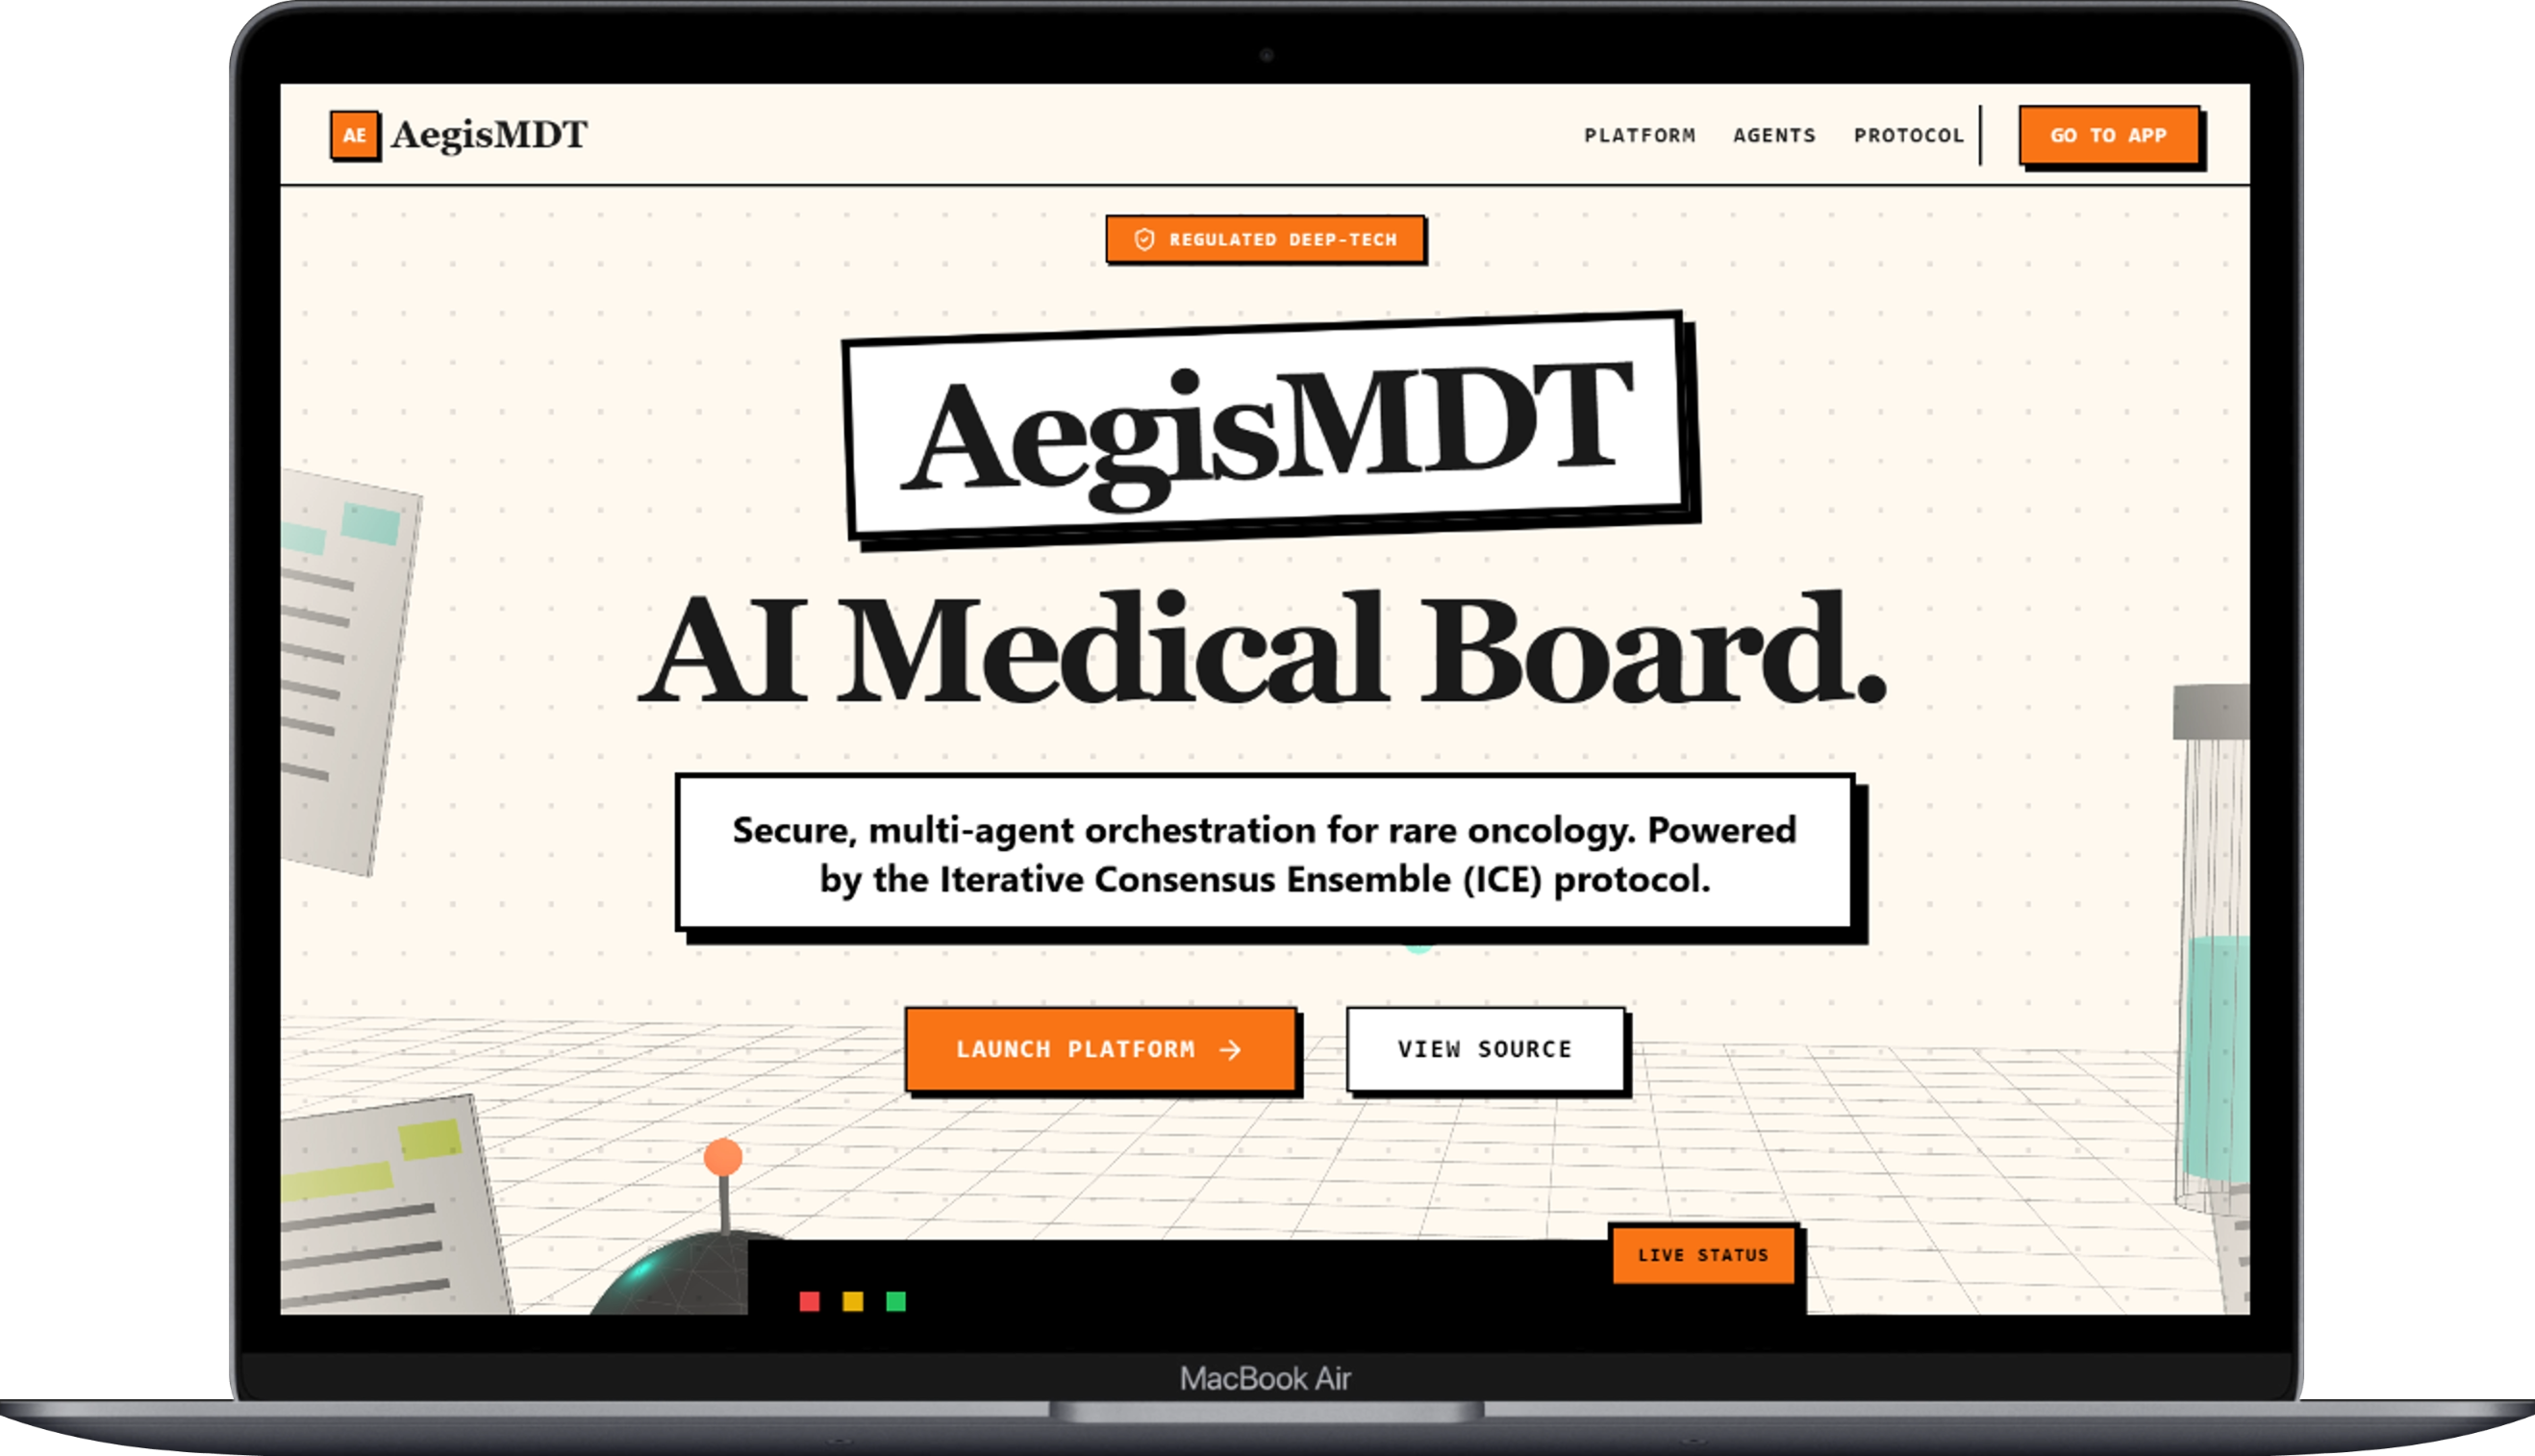
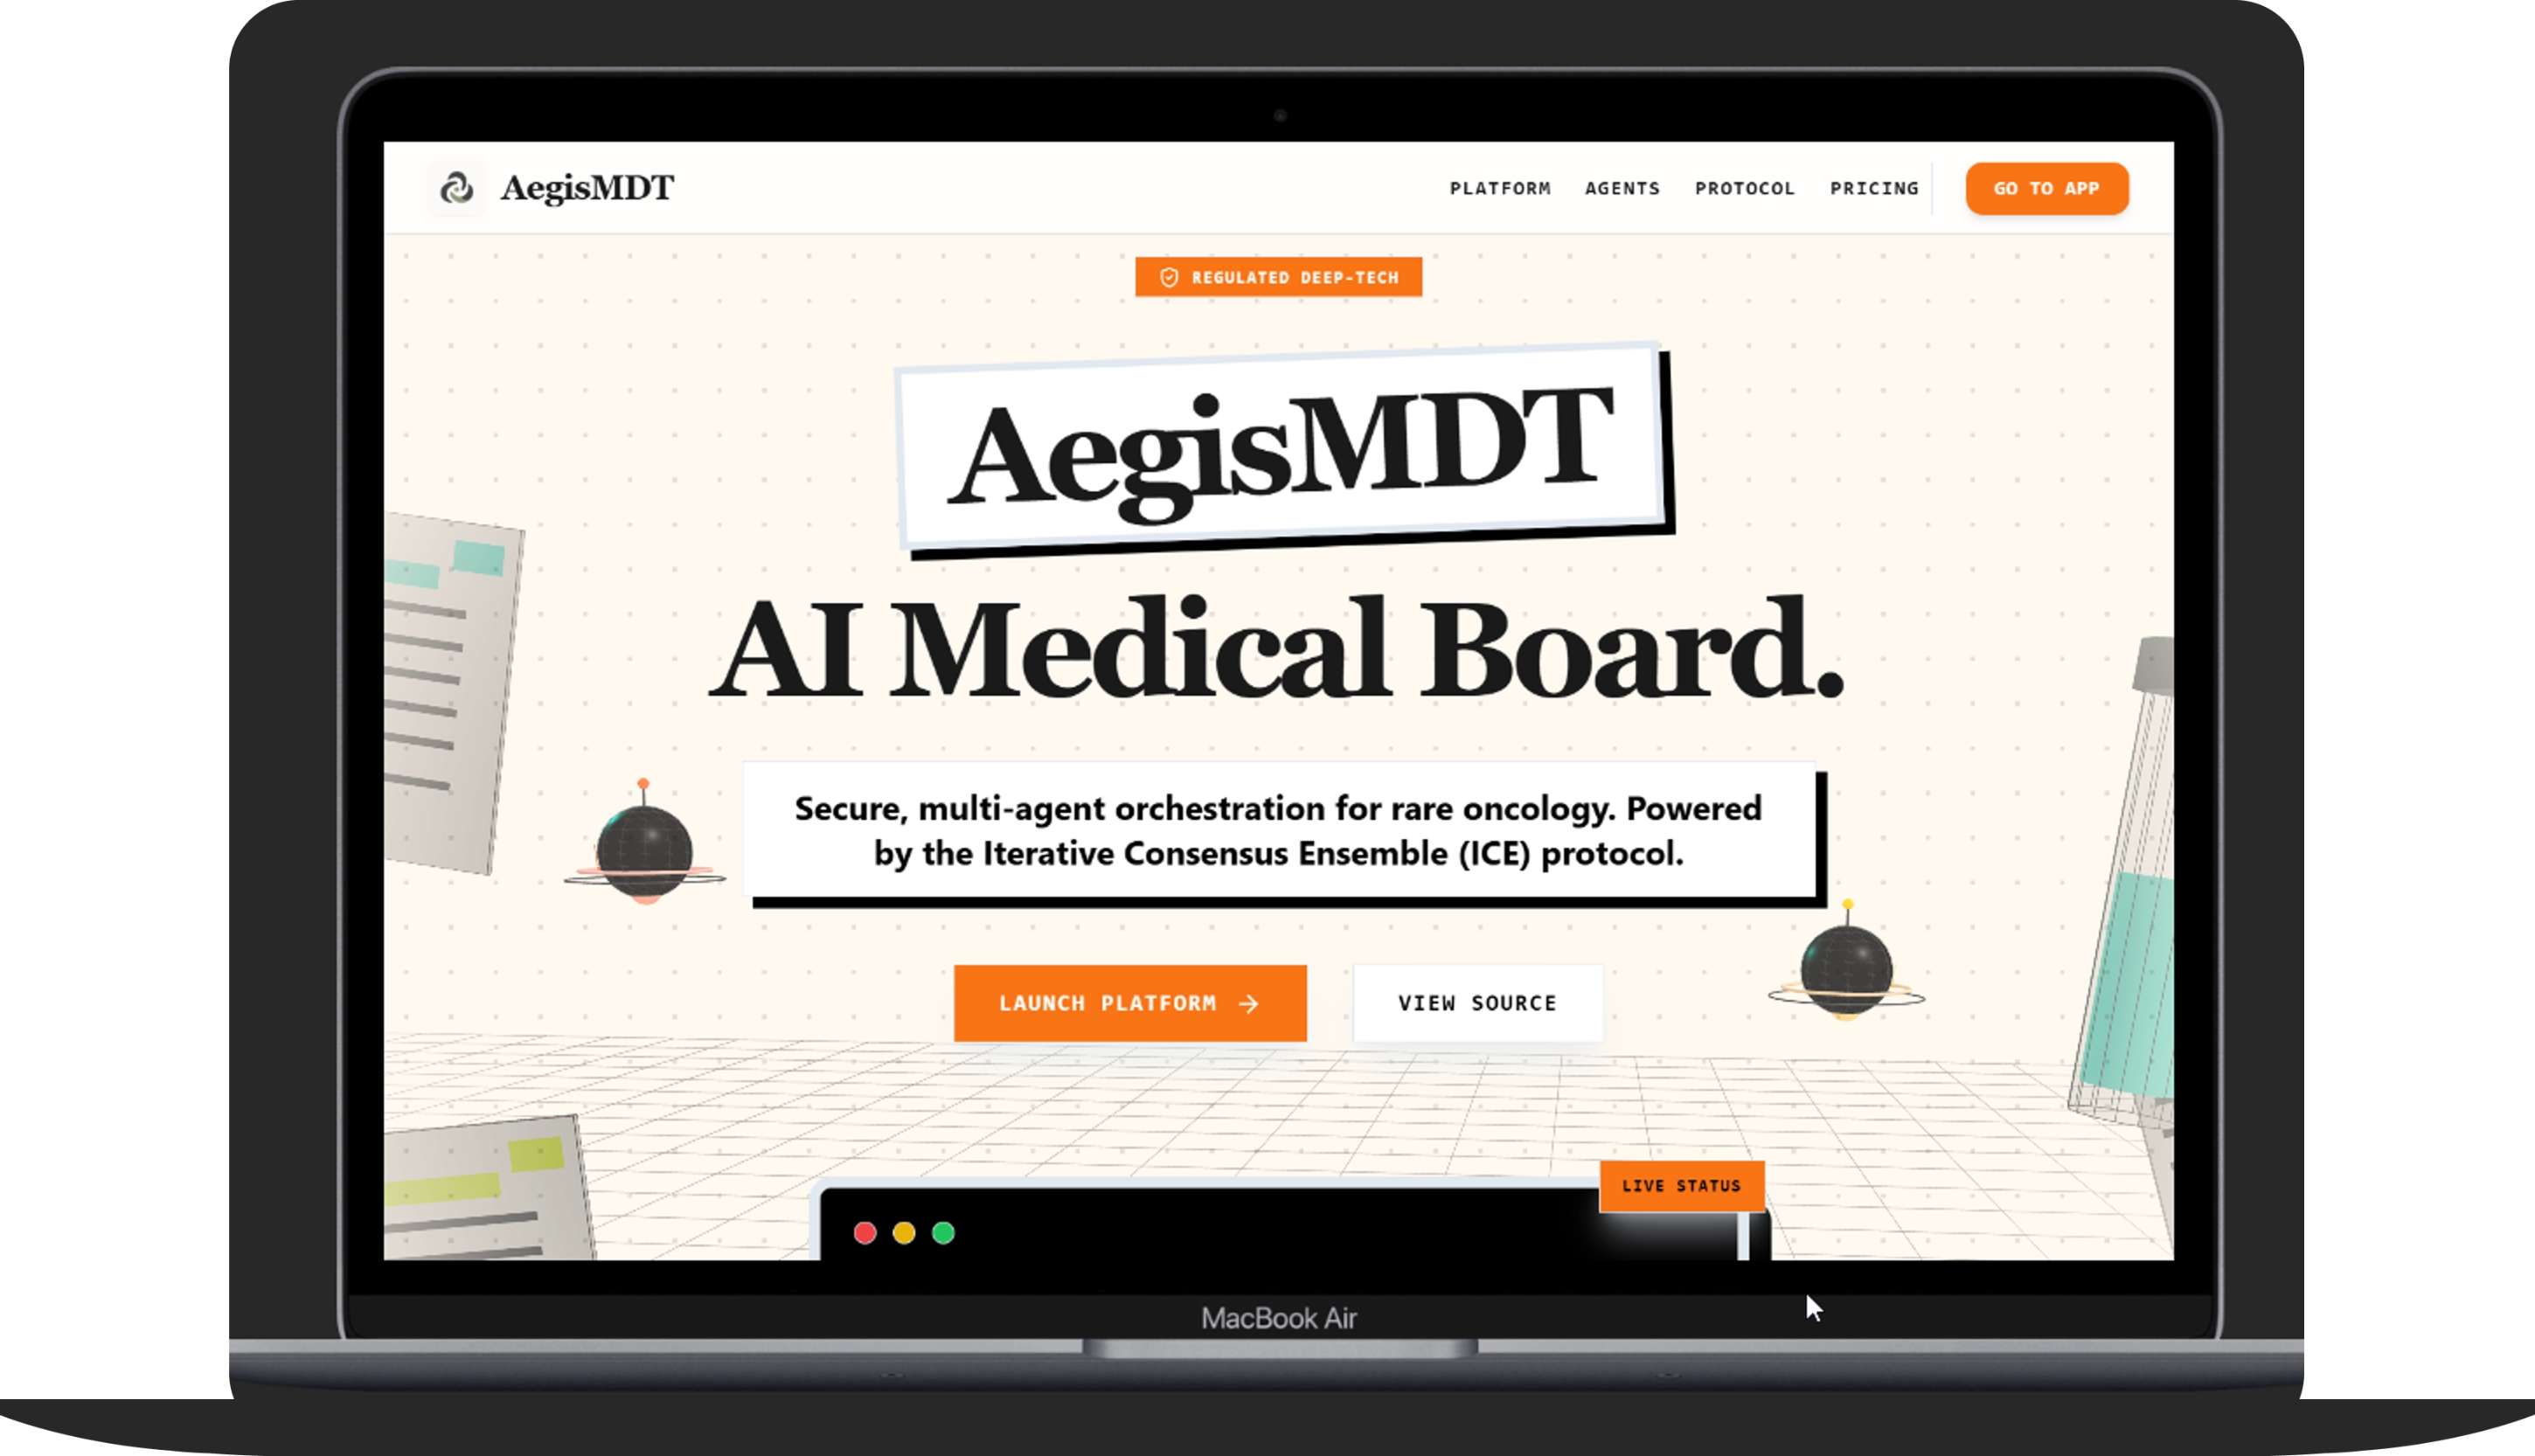
chore: optimize nextjs codebase, fix all typescript any types, migrate img to next/image for LCP, remove unused imports

diff --git a/frontend/src/app/cases/[id]/page.tsx b/frontend/src/app/cases/[id]/page.tsx
@@ -26,15 +26,49 @@ const CircularProgress = ({ value, label }: { value: number, label: string }) =>
   );
 };
 
+interface TrialMatch {
+  trial_id: string;
+  eligibility_match_score: number;
+}
+
+interface ConsensusData {
+  diagnosis: string;
+  prognostic_score: number;
+  treatment_recommendation: string;
+  clinical_trials?: TrialMatch[];
+}
+
+interface MessageData {
+  agent: string;
+  action: string;
+  content: string;
+  citations?: string[];
+  confidence?: number;
+  timestamp?: string;
+}
+
+interface CaseDetails {
+  id: string;
+  status: string;
+  input_data: {
+    age?: string | number;
+    sex?: string;
+    description?: string;
+  };
+  timeline?: MessageData[];
+  consensus_result?: ConsensusData;
+  wsi_path?: string;
+}
+
 type CaseStatus = 'submitted' | 'processing' | 'debating' | 'consensus_reached' | 'awaiting_approval' | 'approved' | 'revised';
 
 export default function CaseDashboard() {
   const params = useParams();
   const caseId = params.id as string;
-  const [caseData, setCaseData] = useState<any>(null);
-  const [messages, setMessages] = useState<any[]>([]);
+  const [caseData, setCaseData] = useState<CaseDetails | null>(null);
+  const [messages, setMessages] = useState<MessageData[]>([]);
   const [status, setStatus] = useState<CaseStatus>('submitted');
-  const [consensus, setConsensus] = useState<any>(null);
+  const [consensus, setConsensus] = useState<ConsensusData | null>(null);
   const [feedback, setFeedback] = useState('');
   const [showFeedbackInput, setShowFeedbackInput] = useState(false);
   const [wsStatus, setWsStatus] = useState<'connecting' | 'connected' | 'disconnected' | 'error'>('connecting');
@@ -506,7 +540,7 @@ export default function CaseDashboard() {
                   <div>
                     <span className="text-muted-foreground block text-xs uppercase tracking-wider mb-1">Top Clinical Trials</span>
                     <div className="space-y-2">
-                      {consensus.clinical_trials.slice(0, 2).map((trial: any, i: number) => (
+                      {consensus.clinical_trials.slice(0, 2).map((trial: TrialMatch, i: number) => (
                         <div key={i} className="text-xs bg-secondary/40 p-2 rounded border border-border flex justify-between items-center">
                           <span className="font-medium">{trial.trial_id}</span>
                           <span className="text-teal-400">{(trial.eligibility_match_score * 100).toFixed(0)}% Match</span>

diff --git a/frontend/src/app/dashboard/page.tsx b/frontend/src/app/dashboard/page.tsx
@@ -2,9 +2,20 @@
 
 import { useState, useEffect } from 'react';
 import { useRouter } from 'next/navigation';
-import { Activity, FileText, Users, Shield, Mic, Upload, Database, CheckCircle2 } from 'lucide-react';
+import { Activity, FileText, Users, Shield, Mic, Upload, Database } from 'lucide-react';
 import { motion } from 'framer-motion';
 import { useAuth } from '@/components/AuthProvider';
+
+interface CaseSummary {
+  id: string;
+  status: string;
+  input_data: {
+    age?: string | number;
+    sex?: string;
+    description?: string;
+  };
+  created_at?: string;
+}
 
 export default function Home() {
   const router = useRouter();
@@ -14,7 +25,7 @@ export default function Home() {
   const [sex, setSex] = useState('');
   const [imageUrl, setImageUrl] = useState('');
   const [isSubmitting, setIsSubmitting] = useState(false);
-  const [cases, setCases] = useState<any[]>([]);
+  const [cases, setCases] = useState<CaseSummary[]>([]);
   const [activeTab, setActiveTab] = useState<'manual' | 'upload' | 'emr'>('manual');
   const [isDictating, setIsDictating] = useState(false);
   const [isUploading, setIsUploading] = useState(false);

diff --git a/frontend/src/app/cases/page.tsx b/frontend/src/app/cases/page.tsx
@@ -6,10 +6,21 @@ import { useRouter } from 'next/navigation';
 import { Activity, CheckCircle, AlertTriangle, Clock, ArrowRight } from 'lucide-react';
 import { useAuth } from '@/components/AuthProvider';
 
+interface CaseSummary {
+  id: string;
+  status: string;
+  input_data: {
+    age?: string | number;
+    sex?: string;
+    description?: string;
+  };
+  created_at?: string;
+}
+
 export default function ActiveCasesPage() {
   const router = useRouter();
   const { user, isLoading: authLoading } = useAuth();
-  const [cases, setCases] = useState<any[]>([]);
+  const [cases, setCases] = useState<CaseSummary[]>([]);
   const [loading, setLoading] = useState(true);
 
   useEffect(() => {

diff --git a/frontend/src/app/page.tsx b/frontend/src/app/page.tsx
@@ -2,8 +2,9 @@
 
 import React, { useState, useEffect } from 'react';
 import { motion } from 'framer-motion';
-import { Network, Microscope, UserCog, Scale, ArrowRight, ShieldCheck, Database, Layers, Lock, Activity, Cpu, Fingerprint, Printer, Trophy, CheckCircle2 } from 'lucide-react';
+import { Microscope, UserCog, Scale, ArrowRight, ShieldCheck, Lock, Activity, Cpu, Fingerprint, Printer } from 'lucide-react';
 import Link from 'next/link';
+import Image from 'next/image';
 import dynamic from 'next/dynamic';
 
 const Scene3D = dynamic(() => import('./components/Scene3D').then(mod => mod.Scene3D), { ssr: false });
@@ -354,19 +355,19 @@ export default function LandingPage() {
               {[...Array(3)].map((_, i) => (
                 <div key={i} className="flex space-x-8 md:space-x-16 items-center">
                   <div className="flex items-center justify-center bg-white px-8 py-4 border border-slate-200 shadow-[4px_4px_0px_0px_rgba(0,0,0,1)] min-w-[250px] hover:-translate-y-1 hover:shadow-[6px_6px_0px_0px_rgba(0,0,0,1)] transition-all">
-                    <img src="/band.svg" alt="Band SDK" className="h-14 w-auto object-contain" />
+                    <Image src="/band.svg" alt="Band SDK" width={180} height={56} className="h-14 w-auto object-contain" />
                   </div>
                   <div className="flex items-center justify-center bg-white px-8 py-4 border border-slate-200 shadow-[4px_4px_0px_0px_rgba(0,0,0,1)] min-w-[250px] hover:-translate-y-1 hover:shadow-[6px_6px_0px_0px_rgba(0,0,0,1)] transition-all">
-                    <img src="/featherless.svg" alt="Featherless AI" className="h-14 w-auto object-contain" />
+                    <Image src="/featherless.svg" alt="Featherless AI" width={220} height={56} className="h-14 w-auto object-contain" />
                   </div>
                   <div className="flex items-center justify-center bg-white px-8 py-4 border border-slate-200 shadow-[4px_4px_0px_0px_rgba(0,0,0,1)] min-w-[250px] hover:-translate-y-1 hover:shadow-[6px_6px_0px_0px_rgba(0,0,0,1)] transition-all">
-                    <img src="/chroma.svg" alt="ChromaDB" className="h-14 w-auto object-contain" />
+                    <Image src="/chroma.svg" alt="ChromaDB" width={200} height={56} className="h-14 w-auto object-contain" />
                   </div>
                   <div className="flex items-center justify-center bg-white px-8 py-4 border border-slate-200 shadow-[4px_4px_0px_0px_rgba(0,0,0,1)] min-w-[200px] hover:-translate-y-1 hover:shadow-[6px_6px_0px_0px_rgba(0,0,0,1)] transition-all">
-                    <img src="/lablab.svg" alt="lablab.ai" className="h-14 w-auto object-contain" />
+                    <Image src="/lablab.svg" alt="lablab.ai" width={150} height={56} className="h-14 w-auto object-contain" />
                   </div>
                   <div className="flex items-center justify-center bg-white px-8 py-4 border border-slate-200 shadow-[4px_4px_0px_0px_rgba(0,0,0,1)] min-w-[250px] hover:-translate-y-1 hover:shadow-[6px_6px_0px_0px_rgba(0,0,0,1)] transition-all gap-4 pr-12 md:pr-16">
-                    <img src="/aimlapi.png" alt="AI/ML API" className="h-10 w-10 object-contain rounded-md" />
+                    <Image src="/aimlapi.png" alt="AI/ML API" width={40} height={40} className="h-10 w-10 object-contain rounded-md" />
                     <span className="text-2xl font-serif font-bold text-black whitespace-nowrap">AI/ML API</span>
                   </div>
                 </div>

diff --git a/frontend/src/components/AuthProvider.tsx b/frontend/src/components/AuthProvider.tsx
@@ -1,7 +1,7 @@
 "use client";
 
 import React, { createContext, useContext, useState, useEffect } from "react";
-import { useRouter, usePathname } from "next/navigation";
+import { useRouter } from "next/navigation";
 
 interface User {
   id: string;
@@ -24,7 +24,6 @@ export function AuthProvider({ children }: { children: React.ReactNode }) {
   const [token, setToken] = useState<string | null>(null);
   const [isLoading, setIsLoading] = useState(true);
   const router = useRouter();
-  const pathname = usePathname();
 
   useEffect(() => {
     // Check localStorage on mount
@@ -39,6 +38,7 @@ export function AuthProvider({ children }: { children: React.ReactNode }) {
     } else {
       setIsLoading(false);
     }
+    // eslint-disable-next-line react-hooks/exhaustive-deps
   }, []);
 
   const refreshUser = async (currentToken: string | null = token) => {

diff --git a/frontend/src/app/pricing/page.tsx b/frontend/src/app/pricing/page.tsx
@@ -20,6 +20,7 @@ function PricingContent() {
     if (paymentStatus === "success" && urlUsername) {
       activateSubscription(urlUsername);
     }
+    // eslint-disable-next-line react-hooks/exhaustive-deps
   }, [paymentStatus, urlUsername]);
 
   const activateSubscription = async (username: string) => {
@@ -125,7 +126,7 @@ function PricingContent() {
               <li className="flex items-start"><CheckCircle2 className="w-5 h-5 text-green-500 mr-2 shrink-0" /> 50 Case Analyses per month</li>
               <li className="flex items-start"><CheckCircle2 className="w-5 h-5 text-green-500 mr-2 shrink-0" /> Full ICE Protocol (All 4 Clinical Agents)</li>
               <li className="flex items-start"><CheckCircle2 className="w-5 h-5 text-green-500 mr-2 shrink-0" /> Deep PubMed & Clinical Trial Graph API</li>
-              <li className="flex items-start"><CheckCircle2 className="w-5 h-5 text-green-500 mr-2 shrink-0" /> Doctor "Human-in-the-Loop" Intervention</li>
+              <li className="flex items-start"><CheckCircle2 className="w-5 h-5 text-green-500 mr-2 shrink-0" /> Doctor &quot;Human-in-the-Loop&quot; Intervention</li>
               <li className="flex items-start"><CheckCircle2 className="w-5 h-5 text-green-500 mr-2 shrink-0" /> Formal White-label EMR PDF Export</li>
             </ul>
           </div>

diff --git a/frontend/src/components/Navbar.tsx b/frontend/src/components/Navbar.tsx
@@ -1,6 +1,7 @@
 "use client";
 
 import Link from "next/link";
+import Image from "next/image";
 import { useAuth } from "./AuthProvider";
 import { LogOut, User } from "lucide-react";
 import { usePathname } from "next/navigation";
@@ -16,7 +17,7 @@ export default function Navbar() {
       <div className="container flex h-16 max-w-screen-2xl items-center px-8">
         <div className="mr-4 flex">
           <Link className="mr-6 flex items-center space-x-3" href="/">
-            <img src="/logo.jpeg" alt="AegisMDT Logo" className="h-10 w-auto rounded-lg shadow-sm" />
+            <Image src="/logo.jpeg" alt="AegisMDT Logo" width={40} height={40} className="h-10 w-auto rounded-lg shadow-sm" />
             <span className="hidden font-serif text-2xl font-bold sm:inline-block text-foreground tracking-tight">AegisMDT</span>
           </Link>
         </div>

diff --git a/frontend/src/app/doku-checkout/page.tsx b/frontend/src/app/doku-checkout/page.tsx
@@ -1,6 +1,6 @@
 "use client";
 
-import { useState, useEffect, Suspense } from "react";
+import { useState, Suspense } from "react";
 import { useRouter, useSearchParams } from "next/navigation";
 import { CreditCard, CheckCircle2, ShieldCheck, Activity } from "lucide-react";
 

diff --git a/frontend/src/app/pitch/page.tsx b/frontend/src/app/pitch/page.tsx
@@ -1,7 +1,7 @@
 'use client';
 
 import { useState, useEffect } from 'react';
-import { Play, Square, FastForward, Rewind, Maximize, Mic } from 'lucide-react';
+import { Play, Square, FastForward, Rewind, Mic } from 'lucide-react';
 import { motion } from 'framer-motion';
 
 const SCRIPT = [